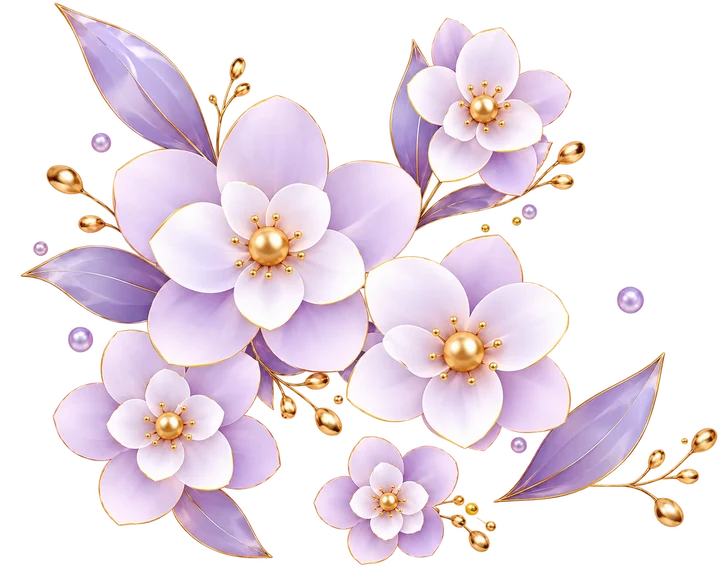
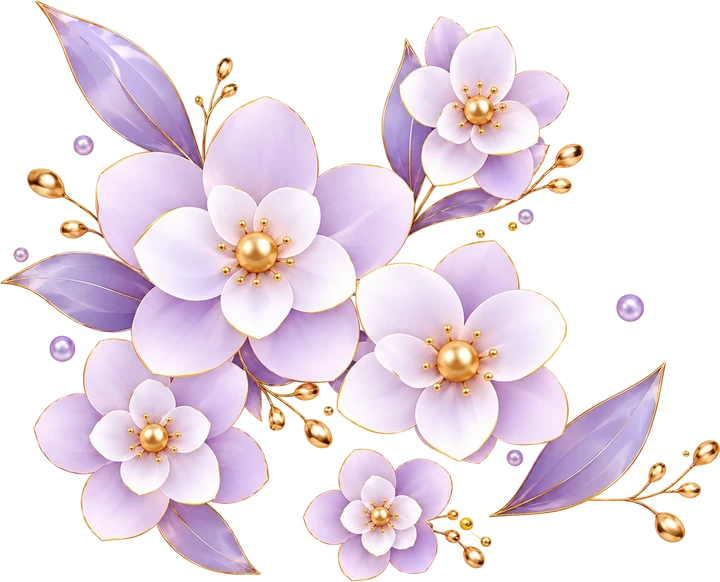
Remove o recorte das flores e a névoa branca em volta delas
- Animação das flores não usa mais clip-path circular: só escala,
  rotação e opacidade, então nunca aparece borda cortada.
- img/flores.webp refeita zerando o alfa fraco (<= 28) do PNG original,
  que formava uma névoa branca quase invisível; a drop-shadow a deixava
  aparente como uma caixa clara.
- #avaliacoes usa overflow-x: clip (antes hidden), e a flor de baixo não
  passa mais da seção: sem corte reto em cima/embaixo.
- Flores da faixa lilás um pouco menores e com menos rotação, para
  caberem na faixa durante a animação.

Claude-Session: https://claude.ai/code/session_017EpsqpSYuAw3iBj8AJ6ha2

diff --git a/js/main.js b/js/main.js
@@ -211,9 +211,9 @@
 
   /* ---------- Flores desabrochando com o scroll ----------
      Começam fechadas no canto (invisíveis, pequenas e giradas) e se abrem
-     conforme a seção entra na tela: um círculo cresce a partir do canto
-     (clip-path) enquanto o buquê cresce e "desenrola" a rotação. scrub
-     amarra o progresso ao scroll: rolar para cima fecha de novo. */
+     conforme a seção entra na tela: o buquê cresce a partir do canto e
+     "desenrola" a rotação. Sem recorte: só o PNG transparente aparece.
+     scrub amarra o progresso ao scroll: rolar para cima fecha de novo. */
   if (gsap && ST && !reduceMotion) {
     document.querySelectorAll('.bloom').forEach(function (el) {
       var img = el.querySelector('img');
@@ -224,11 +224,11 @@
         scrollTrigger: { trigger: el.parentElement, start: 'top 92%', end: 'center 50%', scrub: 1 }
       })
         .fromTo(el,
-          { clipPath: 'circle(0% at ' + o + ')', scale: 0.3, rotation: -30 * dir, autoAlpha: 0 },
-          { clipPath: 'circle(150% at ' + o + ')', scale: 1, rotation: 0, autoAlpha: 1, ease: 'power2.out', duration: 1 })
+          { scale: 0.2, rotation: -15 * dir, autoAlpha: 0 },
+          { scale: 1, rotation: 0, autoAlpha: 1, ease: 'power2.out', duration: 1 })
         .fromTo(img,
-          { rotation: 40 * dir, scale: 0.75 },
-          { rotation: 0, scale: 1, ease: 'back.out(1.6)', duration: 1 }, 0);
+          { rotation: 20 * dir, scale: 0.8 },
+          { rotation: 0, scale: 1, ease: 'back.out(1.4)', duration: 1 }, 0);
     });
   }
 

diff --git a/css/style.css b/css/style.css
@@ -400,8 +400,8 @@ ul, ol { margin: 0; padding: 0; list-style: none; }
 }
 .ribbon-promo-l { width: 80px; height: 340px; left: 12%; top: -60px; transform: rotate(-60deg); }
 .ribbon-promo-r { width: 90px; height: 380px; right: 12%; top: -40px; transform: rotate(20deg); }
-.bloom-promo-l { width: 290px; left: -80px; top: 50%; translate: 0 -50%; }
-.bloom-promo-r { width: 290px; right: -80px; top: 50%; translate: 0 -50%; }
+.bloom-promo-l { width: 250px; left: -70px; top: 50%; translate: 0 -50%; }
+.bloom-promo-r { width: 250px; right: -70px; top: 50%; translate: 0 -50%; }
 
 /* Passos */
 .steps {
@@ -433,9 +433,9 @@ ul, ol { margin: 0; padding: 0; list-style: none; }
 .venue-card p { font-size: 12.5px; color: var(--muted); margin-bottom: 12px; }
 
 /* Avaliações */
-#avaliacoes { overflow: hidden; }
+#avaliacoes { overflow-x: clip; } /* sem corte reto em cima/embaixo das flores */
 .bloom-reviews-l { width: 320px; left: -90px; top: 0; }
-.bloom-reviews-r { width: 320px; right: -90px; bottom: -20px; }
+.bloom-reviews-r { width: 320px; right: -90px; bottom: 0; }
 
 .testimonial-card {
   display: flex; gap: 18px; align-items: flex-start; padding: 26px 24px;
